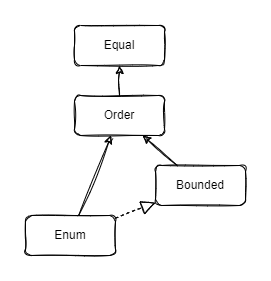
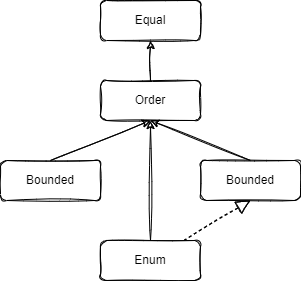
Add Spire library

diff --git a/docs/typeclass/equal/equal.md b/docs/typeclass/equal/equal.md
@@ -4,9 +4,9 @@
 
 `Equal` должен следовать [следующим законам](https://ru.wikipedia.org/wiki/%D0%A2%D0%BE%D0%B6%D0%B4%D0%B5%D1%81%D1%82%D0%B2%D0%BE_%D0%BD%D0%B5%D1%80%D0%B0%D0%B7%D0%BB%D0%B8%D1%87%D0%B8%D0%BC%D1%8B%D1%85):
 
-- Reflexivity(рефлексивность): `x == x` для любого `x`
-- Неразличимость тождеств: для любых `x` и `y`, если `x == y`, то `x` и `y` неразличимы.
-- Личность неразличимых: для любых `x` и `y`, если `x` и `y` неразличимы, то `x == y`
+- _Рефлексивность_: `x == x` для любого `x`
+- _Неразличимость тождеств_ (_антисимметрия_): для любых `x` и `y`, если `x == y`, то `x` и `y` неразличимы.
+- _Личность неразличимых_: для любых `x` и `y`, если `x` и `y` неразличимы, то `x == y`
 
 Неразличимость формализует интуитивное представление о двух объектах, обладающих точно такими же свойствами. 
 Два значения `x, y: A` неразличимы, если не существует такой функции `f: A => Boolean`, что `f(x)` - `true`, а `f(y)` - `false`. 
@@ -14,8 +14,8 @@
 Эти законы влекут за собой симметрию и транзитивность, которые должно быть легче проверить, 
 поскольку они не дают универсальной количественной оценки для всех возможных предикатов в языке:
 
-- Симметричность: `x == y` тогда и только тогда, когда `y == x`
-- Транзитивность: если `x == y` и `y == z`, тогда `x == z`
+- _Симметричность_: `x == y` тогда и только тогда, когда `y == x`
+- _Транзитивность_: если `x == y` и `y == z`, тогда `x == z`
 
 Если есть преобразование `f: G => F`, то из `Equal[F]` можно получить `Equal[G]`.
 
@@ -69,6 +69,16 @@ List(1, 2, 3) === List(1, 2, 3) // true
 List(1, 2, 3) =/= List(1, 2, 4) // true
 ```
 
+### Реализация в Spire
+
+```dotty
+import spire.math.Rational
+import spire.syntax.all.*
+
+Rational(2, 4) === Rational(3, 6) // true
+Rational(2, 6) =!= Rational(3, 6) // true
+```
+
 ---
 
 **Ссылки:**
@@ -77,3 +87,4 @@ List(1, 2, 3) =/= List(1, 2, 4) // true
 - [Herding Cats](http://eed3si9n.com/herding-cats/Eq.html)
 - [Learning Scalaz](http://eed3si9n.com/learning-scalaz/Equal.html)
 - [Scalaz API](https://javadoc.io/doc/org.scalaz/scalaz-core_3/7.3.6/scalaz/Equal.html)
+- [Spire home page](https://typelevel.org/spire)

diff --git a/docs/libs/spire/eq.md b/docs/libs/spire/eq.md
@@ -28,6 +28,14 @@ Spire требует для `eqv` соблюдения законов отнош
 Идея состоит в том, что если `a === b`, тогда `a` и `b` должны быть взаимозаменяемыми, 
 так что для любого выражения `f(x)`, `f(a) === f(b)`.
 
+```dotty
+import spire.math.Rational
+import spire.syntax.all.*
+
+Rational(2, 4) === Rational(3, 6) // true
+Rational(2, 6) =!= Rational(3, 6) // true
+```
+
 ## Order
 
 Общее сравнение в Spire поддерживается классом типов `Order[A]`. 
@@ -65,6 +73,19 @@ Spire требует для `eqv` соблюдения законов отнош
 В этих случаях пользователям необходимо будет осознавать риски и ограничивать их использование ситуациями, 
 когда конкретный закон не требуется.
 
+```dotty
+import spire.algebra.Order
+import spire.math.Rational
+
+Order.comparison(Rational(1, 2), Rational(1, 3)) // GreaterThan
+Order.gt(Rational(1, 2), Rational(1, 3))         // true
+Order.gteqv(Rational(1, 2), Rational(1, 3))      // true
+Order.lt(Rational(1, 2), Rational(1, 3))         // false
+Order.lteqv(Rational(1, 2), Rational(1, 3))      // false
+Order.min(Rational(1, 2), Rational(1, 3))        // 1/3
+Order.max(Rational(1, 2), Rational(1, 3))        // 1/2
+```
+
 ## Signed
 
 Общее упорядочивание, инвариантное к сдвигу, фиксируется классом типов `Signed[A]` - 
@@ -83,6 +104,27 @@ Spire требует для `eqv` соблюдения законов отнош
 Вышеуказанные законы подразумевают:
 
 - `abs(a + b) <= abs(a) + abs(b)`
+
+```dotty
+import spire.algebra.Signed.*
+import spire.std.int.*
+
+sign(10)               // Positive
+sign(0)                // Zero
+sign(-10)              // Negative
+signum(10)             // 1
+signum(0)              // 0
+signum(-10)            // -1
+abs(10)                // 10
+abs(0)                 // 0 
+abs(-10)               // 10
+isSignPositive(10)     // true
+isSignZero(0)          // true
+isSignNegative(-10)    // true
+isSignNonPositive(10)  // false
+isSignNonZero(0)       // false
+isSignNonNegative(-10) // false
+```
 
 ## PartialOrder
 

diff --git a/docs/typeclass/equal/signed.md b/docs/typeclass/equal/signed.md
@@ -1,0 +1,74 @@
+# Signed
+
+Общее упорядочивание, инвариантное к сдвигу, фиксируется классом типов `Signed[A]`,
+который расширяет [`Order`](order.md), - типы, имеющие знак (отрицательный, ноль, положительный).
+В общем случае тип `A` содержит нулевой элемент `0`.
+
+`Signed` должен удовлетворять следующим законам (помимо законов `Order` и `Equal`):
+
+- `signum(x) = -1` если `x < 0`, `signum(x) = 1` если `x > 0`, иначе - `signum(x) = 0`.
+
+Если тип `A` оснащен отрицательными элементами `-x`, то:
+
+- `abs(x) = -x` если `x < 0`, иначе - `x`,
+
+## Описание
+
+```dotty
+trait Equal[A]:
+  def equal(a1: A, a2: A): Boolean
+
+enum Ordering:
+  case LT
+  case EQ
+  case GT
+
+trait Order[A] extends Equal[A]:
+  def order(x: A, y: A): Ordering
+
+enum Sign:
+  case Positive
+  case Zero
+  case Negative
+
+trait Signed[A] extends Order[A]:
+  def sign(x: A): Sign
+  def isSignPositive(x: A): Boolean = sign(x) == Sign.Positive
+  def isSignZero(x: A): Boolean = sign(x) == Sign.Zero
+  def isSignNegative(x: A): Boolean = sign(x) == Sign.Negative
+  def isSignNonPositive(x: A): Boolean = sign(x) != Sign.Positive
+  def isSignNonZero(x: A): Boolean = sign(x) != Sign.Zero
+  def isSignNonNegative(x: A): Boolean = sign(x) != Sign.Negative
+```
+
+## Реализация
+
+### Реализация в Spire
+
+```dotty
+import spire.algebra.Signed.*
+import spire.std.int.*
+
+sign(10)               // Positive
+sign(0)                // Zero
+sign(-10)              // Negative
+signum(10)             // 1
+signum(0)              // 0
+signum(-10)            // -1
+abs(10)                // 10
+abs(0)                 // 0 
+abs(-10)               // 10
+isSignPositive(10)     // true
+isSignZero(0)          // true
+isSignNegative(-10)    // true
+isSignNonPositive(10)  // false
+isSignNonZero(0)       // false
+isSignNonNegative(-10) // false
+```
+
+---
+
+**Ссылки:**
+
+- [Spire home page](https://typelevel.org/spire)
+- [Spire User's Guide](https://typelevel.org/spire/guide.html)

diff --git a/docs/typeclass/equal/order.md b/docs/typeclass/equal/order.md
@@ -6,18 +6,19 @@
 
 `Order` должен удовлетворять следующим законам (помимо законов `Equal`):
 
-- Антисимметричность: 
+- _Антисимметричность_: 
     - если `f1 < f2`, то `f2 > f1`, 
     - если `f1 <= f2`, то `f2 >= f1`,
     - и т.п.
-- Транзитивность:
+- _Транзитивность_:
     - если `f1 < f2` и `f2 <= f3`, то `f1 < f3`,
     - если `f1 == f2` и `f2 <= f3`, то `f1 <= f3`,
     - если `f1 == f2` и `f2 == f3`, то `f1 == f3`,
     - и т.п.
-- Соответствие `Order` и `Equal`:
+- _Полнота_:
+    - либо `a <= b`, либо `b <= a`
+- _Соответствие_ `Order` и `Equal`:
     - `equal(f1, f2)` равно `true` тогда и только тогда, когда `order(f1, f2)` равно `Ordering.EQ`
-
 
 ## Описание
 
@@ -87,6 +88,21 @@ import Scalaz.*
 
 Метод `?|?` в ScalaZ возвращает результат сравнения `Ordering: LT, GT или EQ`. 
 
+### Реализация в Spire
+
+```dotty
+import spire.algebra.Order
+import spire.math.Rational
+
+Order.comparison(Rational(1, 2), Rational(1, 3)) // GreaterThan
+Order.gt(Rational(1, 2), Rational(1, 3))         // true
+Order.gteqv(Rational(1, 2), Rational(1, 3))      // true
+Order.lt(Rational(1, 2), Rational(1, 3))         // false
+Order.lteqv(Rational(1, 2), Rational(1, 3))      // false
+Order.min(Rational(1, 2), Rational(1, 3))        // 1/3
+Order.max(Rational(1, 2), Rational(1, 3))        // 1/2
+```
+
 ---
 
 **Ссылки:**
@@ -95,3 +111,4 @@ import Scalaz.*
 - [Herding Cats](http://eed3si9n.com/herding-cats/Order.html)
 - [Learning Scalaz](http://eed3si9n.com/learning-scalaz/Order.html)
 - [Scalaz API](https://javadoc.io/doc/org.scalaz/scalaz-core_3/7.3.6/scalaz/Order.html)
+- [Spire home page](https://typelevel.org/spire)
